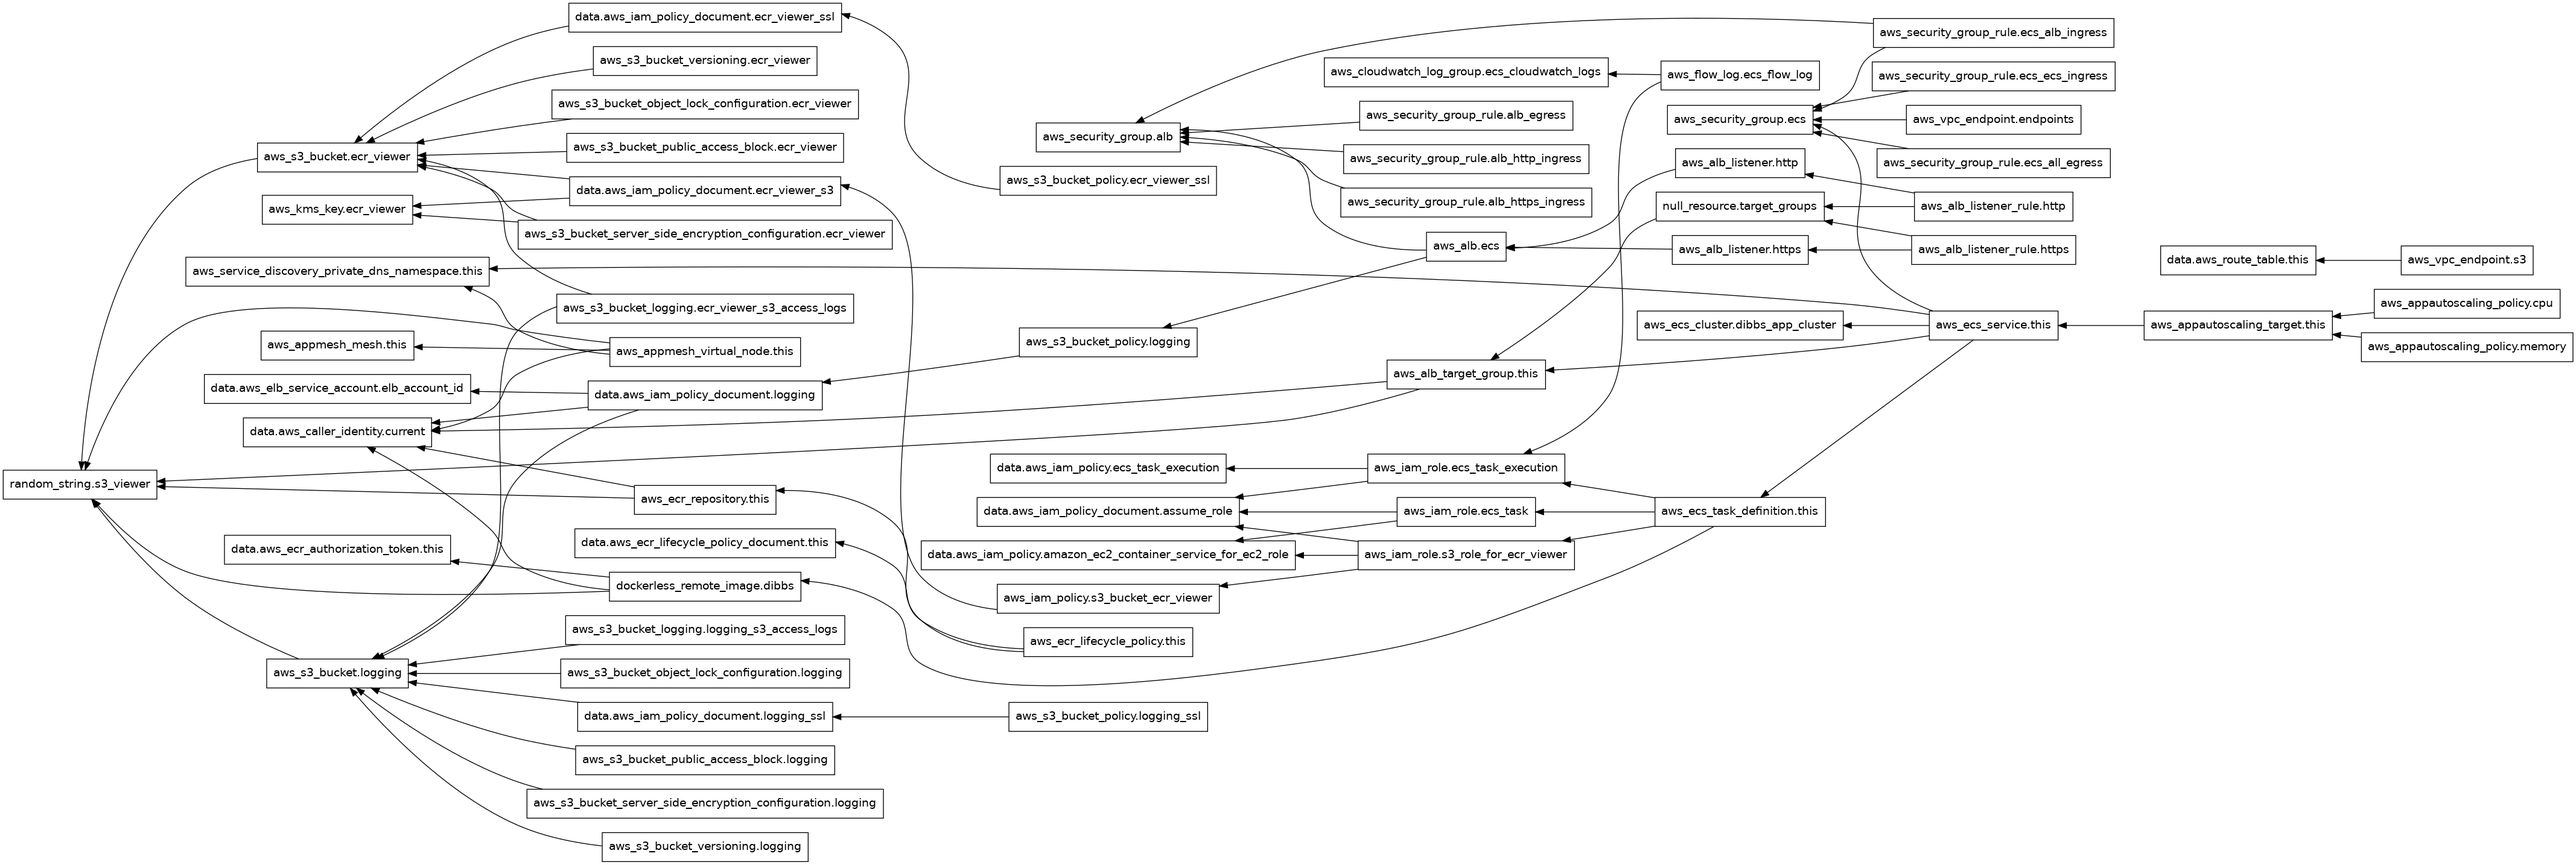
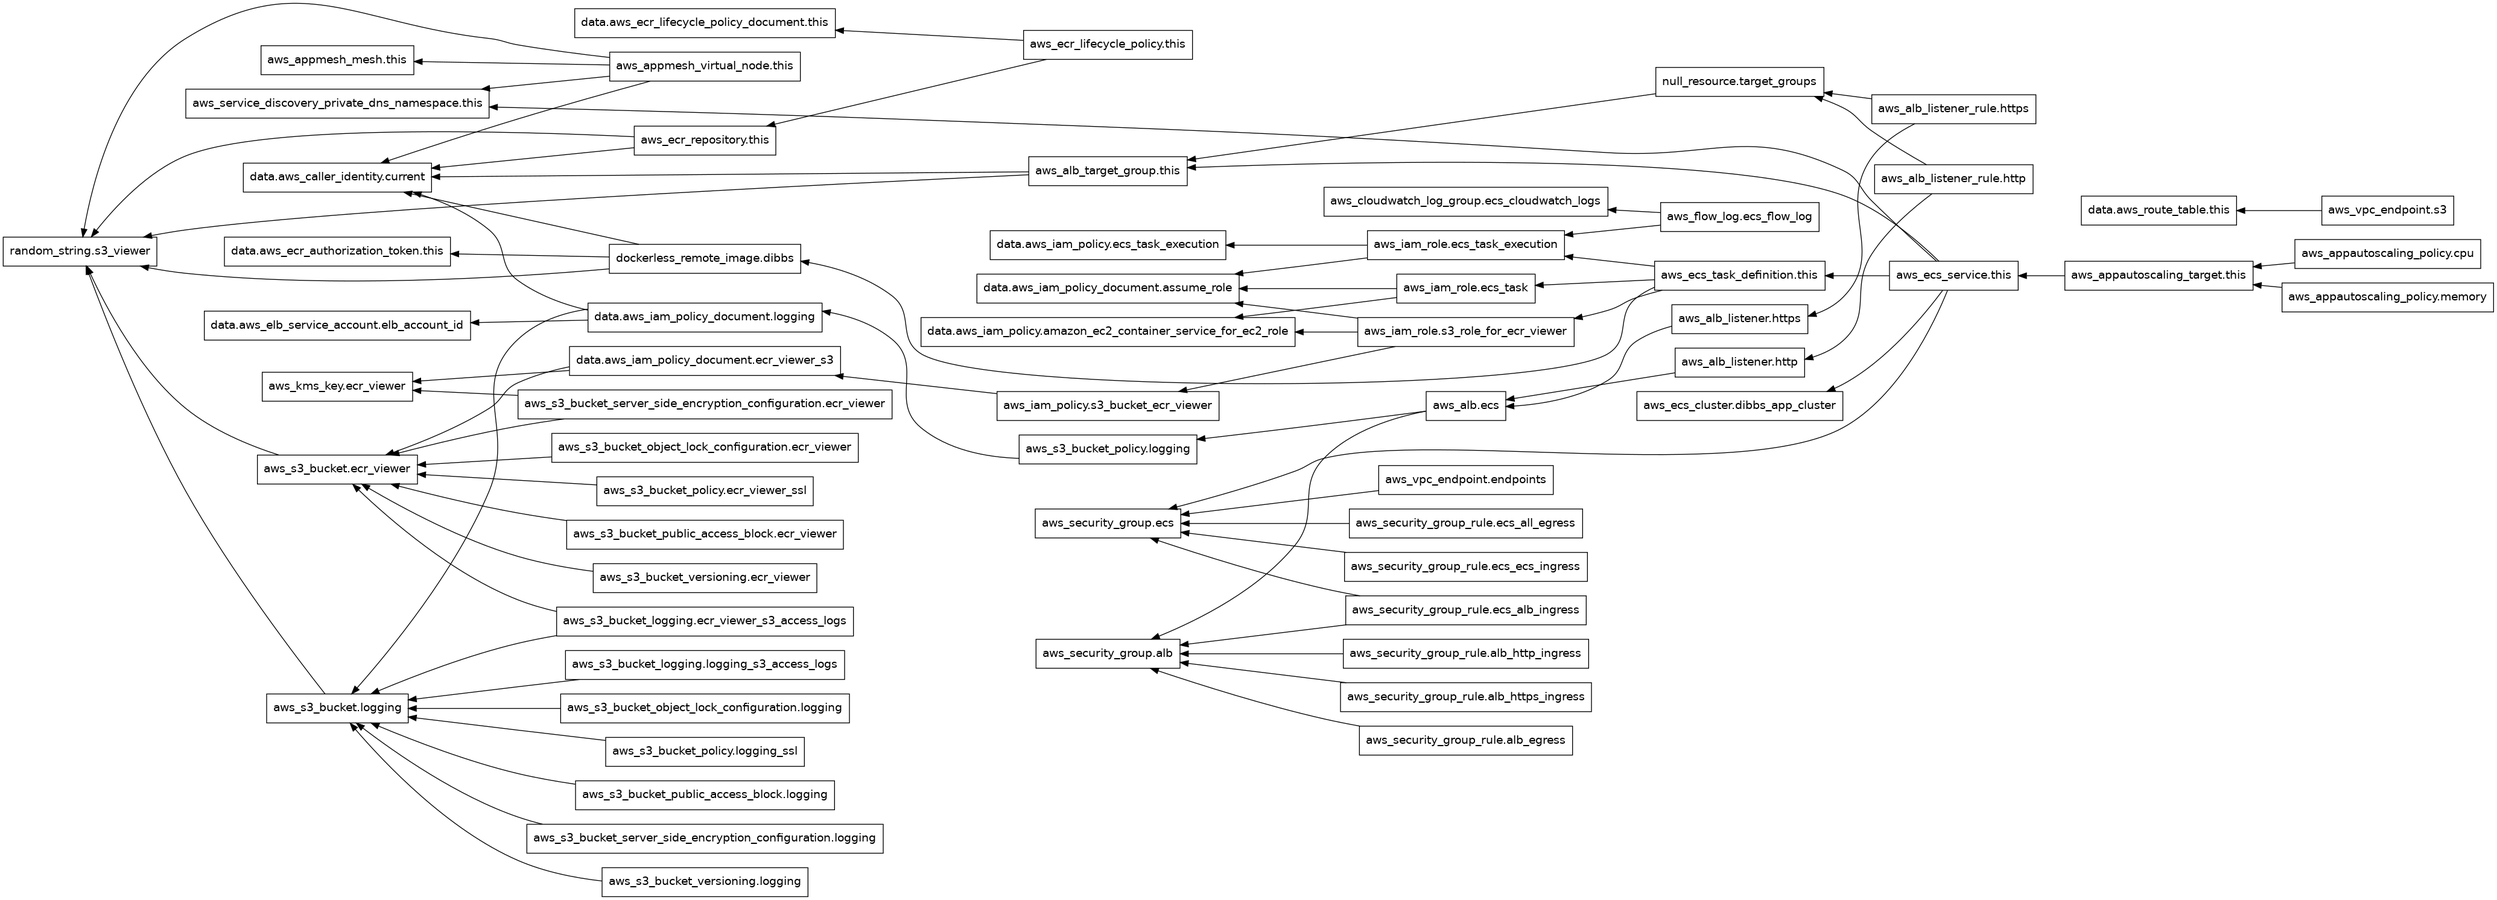
chore(terraform): consolidate SSL conditions in ecr_viewer_s3 and logging policies

diff --git a/README.md b/README.md
@@ -184,9 +184,7 @@ No modules.
 | [aws_iam_policy.ecs_task_execution](https://registry.terraform.io/providers/hashicorp/aws/latest/docs/data-sources/iam_policy) | data source |
 | [aws_iam_policy_document.assume_role](https://registry.terraform.io/providers/hashicorp/aws/latest/docs/data-sources/iam_policy_document) | data source |
 | [aws_iam_policy_document.ecr_viewer_s3](https://registry.terraform.io/providers/hashicorp/aws/latest/docs/data-sources/iam_policy_document) | data source |
-| [aws_iam_policy_document.ecr_viewer_ssl](https://registry.terraform.io/providers/hashicorp/aws/latest/docs/data-sources/iam_policy_document) | data source |
 | [aws_iam_policy_document.logging](https://registry.terraform.io/providers/hashicorp/aws/latest/docs/data-sources/iam_policy_document) | data source |
-| [aws_iam_policy_document.logging_ssl](https://registry.terraform.io/providers/hashicorp/aws/latest/docs/data-sources/iam_policy_document) | data source |
 | [aws_route_table.this](https://registry.terraform.io/providers/hashicorp/aws/latest/docs/data-sources/route_table) | data source |
 
 ## Inputs
